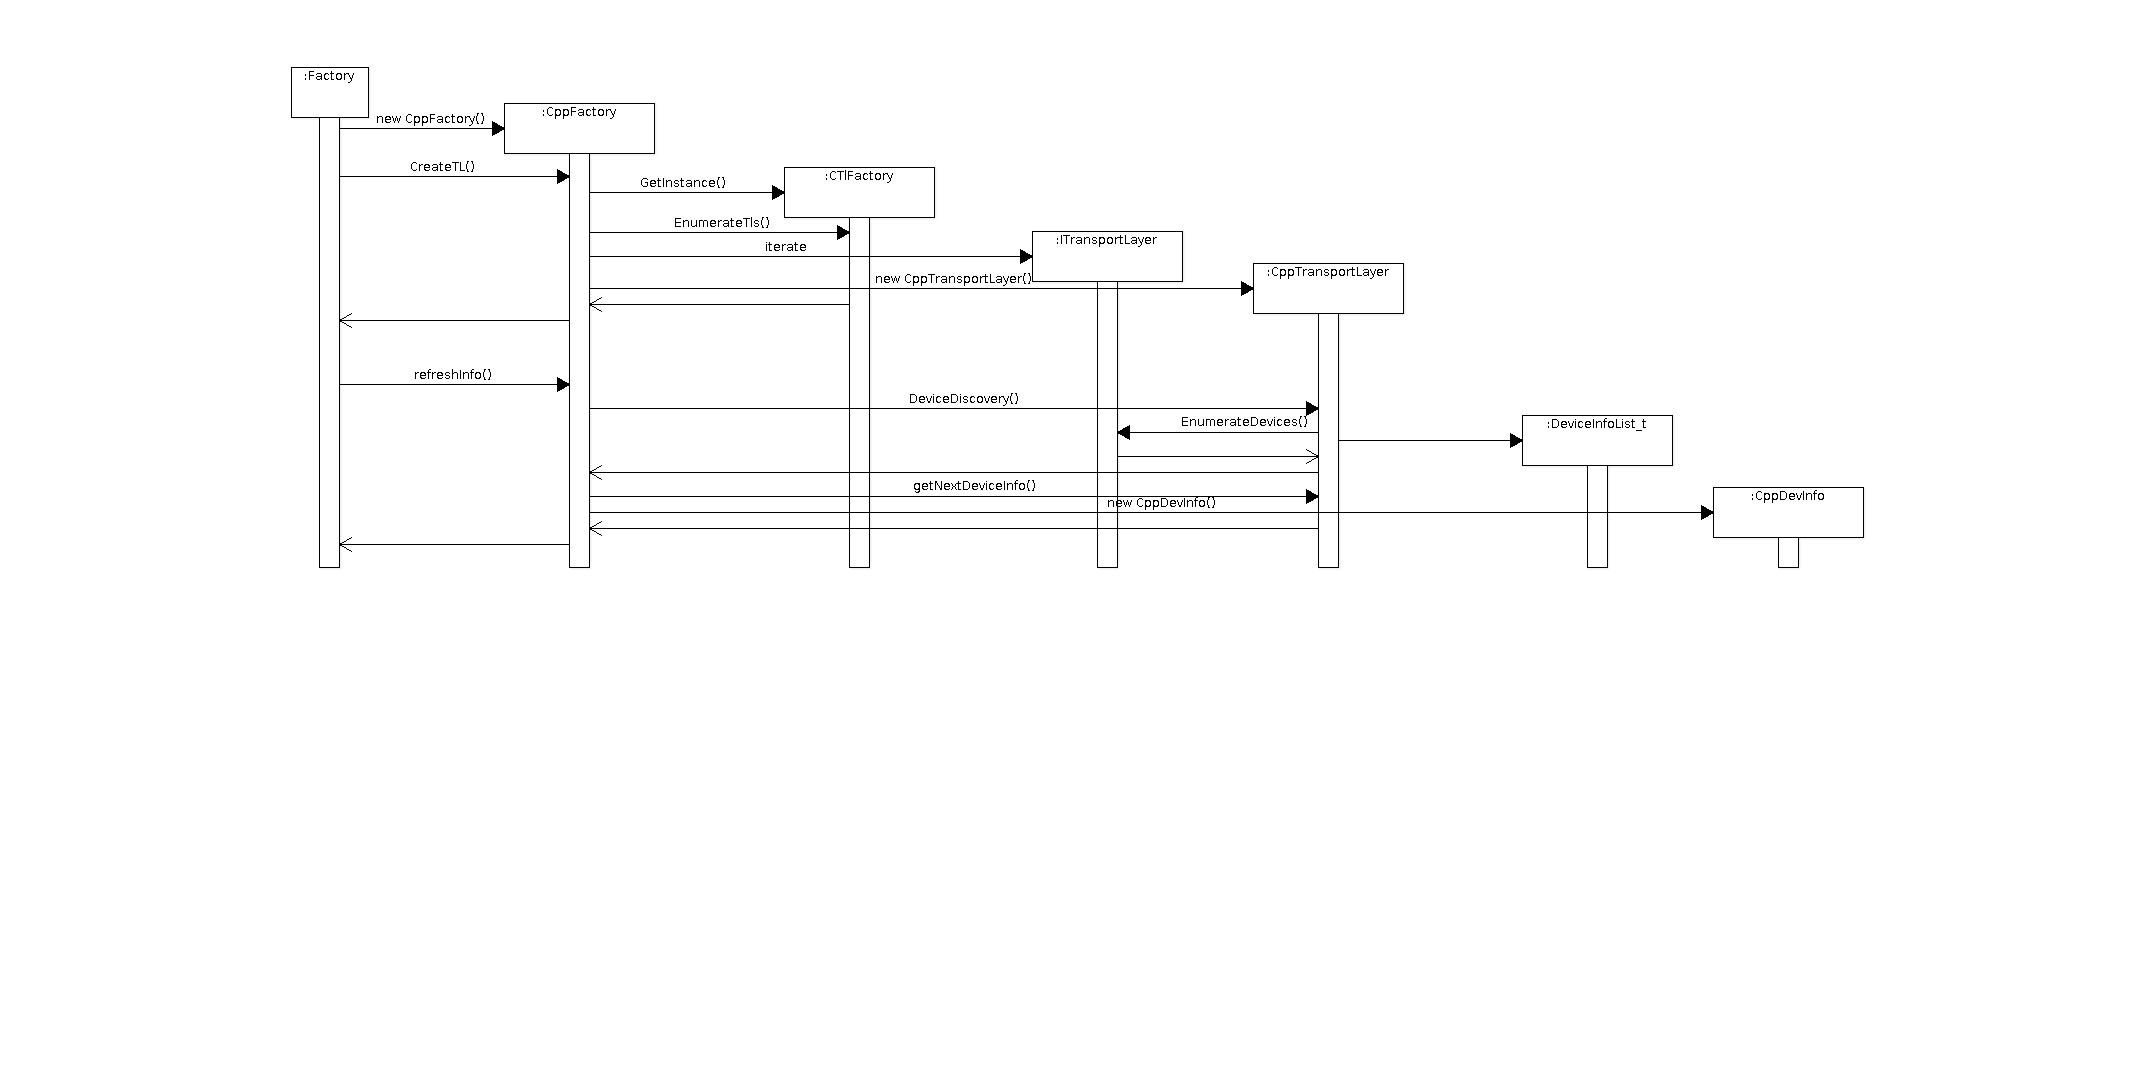
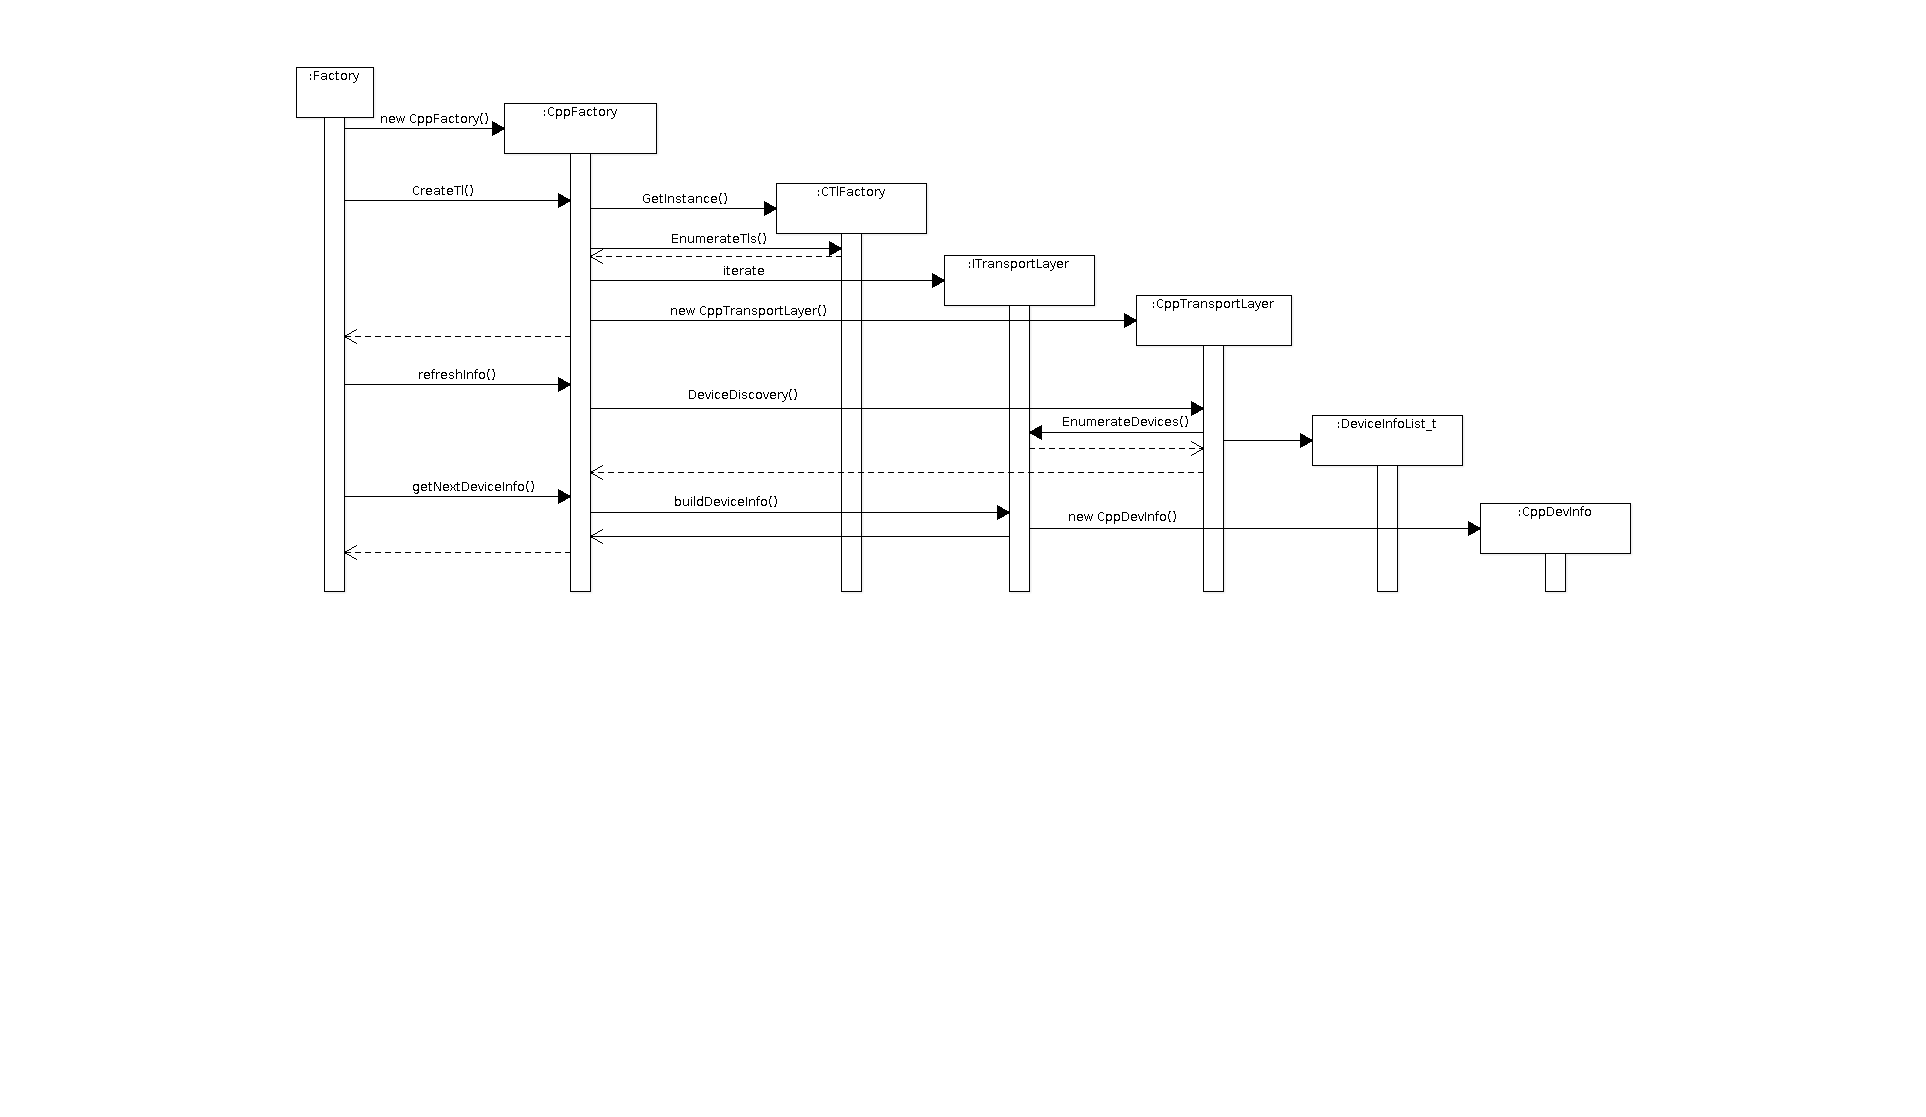
move the devInfo build responsability to the transport layer object (it will better know which subclass of devInfo will be needed when we have their specializations).

diff --git a/pylon/Factory.cpp b/pylon/Factory.cpp
@@ -174,9 +174,10 @@ CppDevInfo* CppFactory::getNextDeviceInfo()
         << (*_tlLstIt)->getTlClass() << " transport layer";
     _debug(msg.str()); msg.str("");
   }
-  const Pylon::CInstantCamera::DeviceInfo_t& pylonDeviceInfo = \
+  const Pylon::CDeviceInfo& pylonDeviceInfo = \
     static_cast<const Pylon::CInstantCamera::DeviceInfo_t&>(*_devLstIt);
-  CppDevInfo* wrapperDevInfo = new CppDevInfo(pylonDeviceInfo);
+  CppDevInfo* wrapperDevInfo = (*_tlLstIt)->buildDeviceInfo(pylonDeviceInfo);
+                               //new CppDevInfo(pylonDeviceInfo);
   msg << "Found a " << pylonDeviceInfo.GetModelName()
       << " Camera, with serial number " << pylonDeviceInfo.GetSerialNumber();
   _debug(msg.str());
@@ -187,7 +188,7 @@ CppDevInfo* CppFactory::getNextDeviceInfo()
 CppCamera* CppFactory::CreateCamera(CppDevInfo* wrapperDevInfo)
 {
   std::stringstream msg;
-  Pylon::CInstantCamera::DeviceInfo_t devInfo;
+  Pylon::CDeviceInfo devInfo;
   Pylon::IPylonDevice *pDevice = NULL;
   Pylon::CInstantCamera *bCamera = NULL;
 

diff --git a/pylon/TransportLayer.h b/pylon/TransportLayer.h
@@ -37,6 +37,7 @@
 
 #include <pylon/PylonIncludes.h>
 #include "Logger.h"
+#include "DevInfo.h"
 
 class CppTransportLayer : public Logger
 {
@@ -47,6 +48,7 @@ public:
   int EnumerateDevices();
   Pylon::DeviceInfoList_t::iterator getFirst();
   Pylon::DeviceInfoList_t::iterator getLast();
+  CppDevInfo* buildDeviceInfo(Pylon::CDeviceInfo);
 private:
   Pylon::ITransportLayer *tl;
   Pylon::CTlInfo info;

diff --git a/pylon/TransportLayer.cpp b/pylon/TransportLayer.cpp
@@ -102,4 +102,10 @@ Pylon::DeviceInfoList_t::iterator CppTransportLayer::getLast()
   return _deviceList.end();
 }
 
-
+/****
+ *
+ */
+CppDevInfo* CppTransportLayer::buildDeviceInfo(Pylon::CDeviceInfo pylonDeviceInfo)
+{
+  return new CppDevInfo(pylonDeviceInfo);
+}
